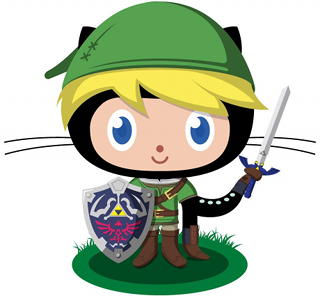
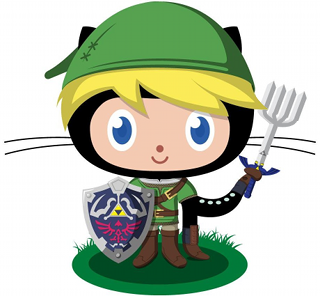
No longer a prototype

Changed region(s): [[0.7812, 0.2736, 0.9688, 0.4561]]

diff --git a/README.md b/README.md
@@ -1,71 +1,21 @@
 # Octocarina of time
 
-This is just brainstorming at this point, but here is my idea. This drawing of Octocat dressed as Link, at the bottom of the [challenge page](https://github.com/blog/1303-github-game-off), was the source of my inspiration.
+![](http://gelisam.com/octocarina/img/README/octocat-link-small.png) 
 
-![](https://raw.github.com/gelisam/game-off-2012/master/img/README/octocat-link-small.png)
+### Click [here](http://gelisam.com/octocarina) to play!
 
-## Origin
+The game is self-contained; you don't need to read any of the explanations below to figure out how to play.
 
-I immediately thought of a Zelda clone, featuring Octocat as Link. To fit the theme, I decided that Octocat should carry a fork instead of a sword. I thought that "Octocarina of Time" would be a nice parody name.
 
-I then went to the whiteboard and wrote down ideas for the game. In the original [Ocarina of Time](http://en.wikipedia.org/wiki/The_Legend_of_Zelda:_Ocarina_of_Time), the timeline splits into two (the "young Link" and "old Link" timelines) when Link picks up the Master Sword. I thought that this was another great opportunity to cater to the theme: Octocat shall *fork* the timeline by picking up the Master Fork.
+## Game mechanic: Revert changes, replay changes
 
-I tried to imagine how the two forked timeline should interact, and I knew at once that I didn't want to make yet another [Chronotron](http://www.kongregate.com/games/Scarybug/chronotron) / [The Company of Myself](http://www.kongregate.com/games/2DArray/the-company-of-myself) / [P.B. Winterbottom](http://www.winterbottomgame.com/) clone. The different timelines should interact with each other, but the character should not interact with past clones of itself (even though "clones" is one of the themes). Trying to see if other GitHub concepts could be applied, I tried to come up with a way in which actions or objects in one timeline could be pushed or pulled between timelines. I came up with the following puzzle mechanics.
+This is a puzzle game in which you carry a fork, push blocks, and go back in time.
 
-## Game mechanic: Pushing changes between timelines
+In git-speak, the Master Fork allows you to work on a tempory branch, to cherry-pick a subset of the block pushes you perform inside that branch, then to rebase those changes onto the master branch. **Important**! You do *not* not to understand the previous sentence in order to have fun playing the game.
 
-1. ![](https://raw.github.com/gelisam/game-off-2012/master/img/README/pre-fork.png)  
-   Octocat enters this room, and wants to reach the star tile. But how?  
-   
-1. ![](https://raw.github.com/gelisam/game-off-2012/master/img/README/forking.png)  
-   First, Octocat splits the timeline.  
-   
-1. ![](https://raw.github.com/gelisam/game-off-2012/master/img/README/move1A.png)  
-   In timeline A, Octocat moves block 1. This blocks his passage, but allows block 2 to be moved.  
-   In timeline B, the blocks are still in their original locations.  
-   
-1. ![](https://raw.github.com/gelisam/game-off-2012/master/img/README/move2A.png)  
-   Now that block 1 is out of the way, Octocat A moves block 2.  
-   
-1. ![](https://raw.github.com/gelisam/game-off-2012/master/img/README/move2B.png)  
-   This is the important step: Octocat B pulls block 2's movement from timeline A.  
-   Block 2 moves, even though block 1 is still in its original location! Without the ability to push changes between timelines, this configuration would be impossible, because block 1 was in way, preventing Octocat B from pushing block 2.  
-   
-1. ![](https://raw.github.com/gelisam/game-off-2012/master/img/README/move3B.png)  
-   With block 2 out of the way, block 1 can be moved in a different direction.  
-   Octocat B moves block 1. When moved in that direction, the block does not block the passage.  
-   Octocat B can reach the star tile! But what about Octocat A?
-   
-1. ![](https://raw.github.com/gelisam/game-off-2012/master/img/README/move3A.png)  
-   Octocat A pulls block 1's movement from timeline B.  
-   In timeline A, block 1 starts from a different position, but the movement applies cleanly because there is no obstacle on its right. Without the ability to push changes between timelines, this move would again be impossible, because Octocat A couldn't have pushed block 1 from his side of the passage.  
-   
-1. ![](https://raw.github.com/gelisam/game-off-2012/master/img/README/issue-closed.png)  
-   The two Octocats proceed to the goal tile, and move on to the next level.
-
-That's it! That mechanic summarises the entire gameplay. Like [Escape from Puppy Death Factory](http://armorgames.com/play/12210/escape-from-puppy-death-factory)'s swap gun, this is probably a power which is very powerful, but which you must learn to adopt one step at a time, learning new tricks gradually as you encounter harder and harder obstacles.
-
-## More
-
-Now that you understand the mechanic, can you solve the next level?
-
-![](https://raw.github.com/gelisam/game-off-2012/master/img/README/level2.png)  
-
-If you're feeling adventurous, you can try the latest development snapshot [here](http://gelisam.com/game-off-2012/). We'll put a more prominent link once we reach a playable state.
-
-## Details
-
-A few more details about the mechanic:
-
-* Changes to individual objects can be pushed individually; you don't need to push the entire timeline's changes.
-* Changes to the same object, however, are linked together. When you push an object's changes to another timeline, you push all of the object's changes since the last change from that object which that timeline saw.
-* If a change cannot be applied (because in that timeline, there is a wall in the way or something), then there is a conflict, and no more changes can be pushed from that object to that timeline.
-* All forked Octocats must reach the goal tile.
-
-I'm not sure how to deal with nested forks yet, maybe they shouldn't be allowed.
 
 ## Art Credits
 
-I am using PlanetCute, a [free tileset](http://www.lostgarden.com/2007/05/dancs-miraculously-flexible-game.html) generously offered by Daniel Cook for the express purpose of *not* making yet another Sokoban clone. Sorry, Danc! Anyway, [his blog](http://www.lostgarden.com/) is a great source of insight for independent games developers.
+I am using PlanetCute, a [free tileset](http://www.lostgarden.com/2007/05/dancs-miraculously-flexible-game.html) generously offered by Daniel Cook for the express purpose of *not* making yet another Sokoban clone. Which this game kind of is, before you start using the Master Fork. Sorry, Danc! Anyway, [his blog](http://www.lostgarden.com/) is a great source of insight for independent games developers.
 
-The [fork](https://github.com/blog/1303-github-game-off) and [pull](https://github.com/styleguide/css/7.0) icons both borrowed from GitHub.
+I also borrow a character from <a href="http://doctor-gus.deviantart.com/">Doctor-Gus</a>, an artist who makes jewelry out of forks. But I can't tell you which character without spoiling the ending.
